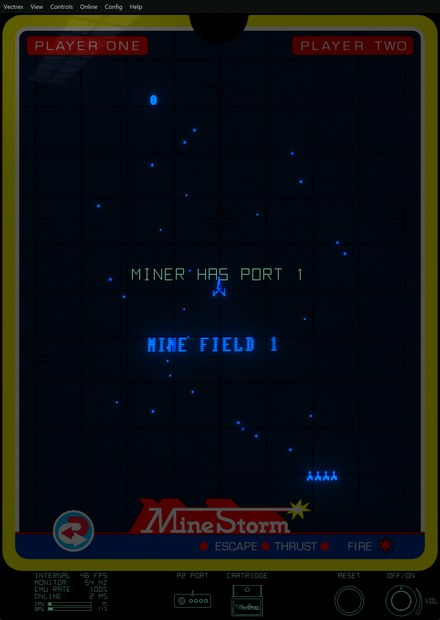
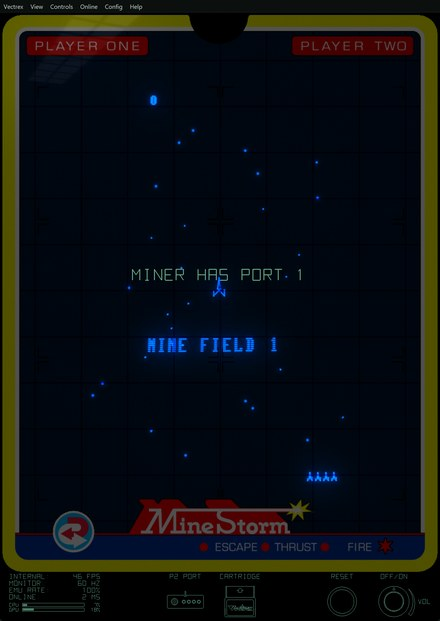
The strip centred as one (distances kept), the OSD always 20 characters wide; PAUSED / ESC/P TO RESUME between the cartridge and RESET

diff --git a/src/frontend/vectrex_emu.py b/src/frontend/vectrex_emu.py
@@ -1108,6 +1108,7 @@ def ver_key(s):
     return tuple(int(x) for x in n[:4]) if n else None
 
 
+OSD_CHARS = 20             # (the OSD's width in characters, always: its widest row - ONLINE: RELAY 120 MS)
 ROOM_LIVE_S = 3.0          # (Find players: the game room's list asked again this often while the window is open - a
                            #  full room is 13 pages, the meeting point answers 6 a second per PC)
 ONE_PLAYER_TITLES = ((b'POLE POSITION',), (b'DARK', b'TOWER'))   # (the original games for one player, by the words of
@@ -3658,13 +3659,13 @@ class App:
             return 0, 0, self.W, self.H
         s, ox, oy = self.ren.map
         return ox * s, oy * s, (ox + ALG_MAX_X) * s, (oy + ALG_MAX_Y) * s
-    def knob_geom(self):
+    def knob_geom(self, raw=False):
         """(knob centre x, y, radius, RESET centre x) in window pixels: just below the picture, lined
-        up with its right edge (see vecrender.KNOB_R)"""
+        up with its right edge (see vecrender.KNOB_R) - the whole strip moved by strip_dx (raw: not)"""
         pl, pt, pr, pb = self.pic_rect()
         r = vecrender.KNOB_R * (pb - pt)
         ar = (pl + pr) / 2 + (vecrender.GLASS_DX + vecrender.ART_AW) * (pb - pt) / 2   # (the overlay's right edge)
-        cx = ar - 2.4 * r                                       # (VOL ends at the overlay's right edge)
+        cx = ar - 2.4 * r + (0.0 if raw else self.strip_dx())   # (VOL ends at the overlay's right edge)
         cy = pb + vecrender.PAD_BOT * (pb - pt) + 1.8 * r   # (the labels' tops below the case as far as the black round it -
                                                                 #  the same gap as on every side; the overlay lies on the case)
         return cx, cy, r, cx - 3.4 * r
@@ -3684,34 +3685,29 @@ class App:
         pl, pt, pr, pb = self.pic_rect()
         return dict(rows=rows, cx=(pl + pr) / 2.0, cy=pt + 0.46 * (pb - pt), k=(pb - pt) / 330.0)
     def pause_state(self):
-        """PAUSED in the strip below the picture, between the OSD and the P2 PORT pictogram (None without the strip:
-        then in the picture)"""
+        """PAUSED in the strip below the picture, between the cartridge and RESET (the owner, 2026-10-29): PAUSED big in
+        orange, how to go on below it, the same room on both sides; up and down halfway between the frame's bottom
+        edge and the bottom of the window (None without the strip: then in the picture)"""
         if not (self.fps_on or self.cart_on or self.knob_on):
             return None
         pl, pt, pr, pb = self.pic_rect()
         x, y, r = self.cart_geom()
-        od = self.osd_state()
-        p2 = od.get('p2x') if od else None
-        right = (p2 if p2 is not None else x - 3.6 * r) - 1.1 * r   # (the P2 PORT pictogram's left edge)
-        k = (1.2 if self.full else 1.0) * 0.3 * r / 6.0         # (as large as the OSD's text)
-        mid = y - 0.5 * r + 8.5 * k
-        if od:
-            left = od['area'][0] + max(sum(len(t) for t, _ in row) for row in od['rows']) * 6.0 * od['k']
-            k = od['k']
-            mid = od['area'][1] + len(od['rows']) * 9.0 * k / 2.0  # (level with the OSD's rows)
-        else:
-            left = (pl + pr) / 2 + (vecrender.GLASS_DX - vecrender.ART_AW) * (pb - pt) / 2
-        rows, ks = ['PAUSED', 'P: GO ON'], [2.6, 1.3]            # (PAUSED large, how to go on below it - short: it fits
-        k = min(k, 0.8 * (right - left) / max(6.0 * len(t) * f for t, f in zip(rows, ks)))   #  the gap, room each side)
-        if k <= 0:
+        kx, ky, kr, rx = self.knob_geom()
+        left, right = x + 1.3 * r, rx - 0.95 * kr               # (the CARTRIDGE label's right end, RESET's ring)
+        room = right - left
+        if room <= 0:
             return None
-        hgt = 11.0 * k * ks[0] + 6.0 * k * ks[1]
-        ph = pb - pt                                            # (up and down: halfway between the frame's bottom edge and
-        fb = (pt + pb) / 2.0 + vecrender.FRAME_Y * ph / 2.0     #  the bottom of the window - the owner, 2026-10-28)
-        wb = pb + (vecrender.PAD_BOT + vecrender.KNOB_STRIP - 0.635 * vecrender.KNOB_R) * ph
-        mid = (fb + wb) / 2.0
+        ph = pb - pt
+        fb = (pt + pb) / 2.0 + vecrender.FRAME_Y * ph / 2.0     # (the frame's bottom edge)
+        wb = pb + (vecrender.PAD_BOT + vecrender.KNOB_STRIP - 0.635 * vecrender.KNOB_R) * ph   # (the window's bottom)
+        rows = ['PAUSED', 'ESC/P TO RESUME']
+        kp = 0.80 * room / (6.0 * len(rows[0]))                 # (PAUSED: most of the gap)
+        kn = min(0.42 * kp, 0.80 * room / (6.0 * len(rows[1])))
+        hgt = 11.0 * kp + 6.0 * kn
+        if hgt > 0.8 * (wb - fb):                               # (a low strip: smaller, to fit)
+            f = 0.8 * (wb - fb) / hgt; kp *= f; kn *= f; hgt *= f
         cols = [self.SPEED_COLORS[1][2], (0.40, 0.667, 0.533)]   # (PAUSED in the OSD's orange)
-        return dict(rows=rows, ks=ks, cols=cols, cx=(left + right) / 2.0, cy=mid - hgt / 2.0, k=k)
+        return dict(rows=rows, ks=[1.0, kn / kp], cols=cols, cx=(left + right) / 2.0, cy=(fb + wb) / 2.0 - hgt / 2.0, k=kp)
     def imager_hint(self):
         """the 3D Imager's disc spinning up (the game draws nothing until it is at speed): a note in the middle of
         the picture with the speed, fading out once the game draws"""
@@ -3781,11 +3777,11 @@ class App:
         bot = pb + (vecrender.PAD_BOT + vecrender.KNOB_STRIP - 0.635 * vecrender.KNOB_R) * ph
         p2x = None
         if k >= OSD_KMIN:                                       # (the strip, the owner 2026-10-29: the OSD moved in, as far
-            chars = max(sum(len(t) for t, _ in row) for row in rows)   #  from P2 PORT as the cartridge is from RESET -
-            w = chars * 6.0 * k                                 #  PAUSED sits in that gap)
-            cxx, _, cr = self.cart_geom()
+            cxx, _, cr = self.cart_geom()                       #  from P2 PORT as the cartridge is from RESET - PAUSED sits
+                                                                #  in that gap; the whole strip centred, strip_dx)
             gap = (rx - 0.95 * r) - (cxx + 1.3 * cr)            # (the cartridge's label to RESET's ring)
-            left = (cxx - 3.6 * cr - 1.1 * cr) - gap - w        # (P2 PORT's left edge, the gap, the OSD's width)
+            left = (cxx - 3.6 * cr - 1.1 * cr) - gap - OSD_CHARS * 6.0 * k   # (P2 PORT's left edge, the gap, the
+                                                                #  OSD's width - always the same)
             if left >= gl_:                                     # (only inwards)
                 gl_ = left
         if k < OSD_KMIN:                                        # (a small window: the strip's text would be unreadable -
@@ -3805,12 +3801,26 @@ class App:
             self.close_browser()
         self.strip_changed()
         return 'break'
-    def cart_geom(self):
+    def cart_geom(self, raw=False):
         """(centre x, y, size) of the cartridge: level with the knob, the right half of the P2 PORT + cartridge
-        block that is centred below the picture"""
+        block that is centred below the picture - the whole strip moved by strip_dx (raw: not)"""
         pl, pt, pr, pb = self.pic_rect()
-        cx, cy, r, rx = self.knob_geom()
-        return (pl + pr) / 2.0 + vecrender.GLASS_DX * (pb - pt) / 2 + 1.8 * r, cy, r
+        cx, cy, r, rx = self.knob_geom(raw=True)
+        return (pl + pr) / 2.0 + vecrender.GLASS_DX * (pb - pt) / 2 + 1.8 * r + (0.0 if raw else self.strip_dx()), cy, r
+    def strip_dx(self):
+        """the strip below the picture moved as one (its distances kept) so that the room left of the OSD and right
+        of VOL is the same (the owner, 2026-10-29); the OSD is always OSD_CHARS wide"""
+        if not (self.fps_on and self.ren and hasattr(self.ren, 'map')):
+            return 0.0
+        pl, pt, pr, pb = self.pic_rect()
+        cx, cy, r, rx = self.knob_geom(raw=True)
+        cxx, _, cr = self.cart_geom(raw=True)
+        k = (1.2 if self.full else 1.0) * 0.3 * r / 6.0
+        gap = (rx - 0.95 * r) - (cxx + 1.3 * cr)
+        left = (cxx - 3.6 * cr - 1.1 * cr) - gap - OSD_CHARS * 6.0 * k   # (as osd_state places it)
+        right = cx + 2.4 * r
+        x0 = (pl + pr) / 2 + vecrender.GLASS_DX * (pb - pt) / 2
+        return x0 - (left + right) / 2.0
     def cart_state(self):
         if not (self.cart_on and self.ren and hasattr(self.ren, 'map')):
             return None
@@ -7226,7 +7236,8 @@ class App:
                 vals.append(('ONLINE', '%s%d MS' % ('RELAY ' if getattr(net, 'relay', False) else '', ng.get('rtt_ms', 0)), g))
             else:
                 vals.append(('ONLINE', 'WAITING', (0.93, 0.60, 0.20)))
-        width = max(len(n) + 2 + len(v) for n, v, _ in vals)   # (the values end in one column)
+        width = max([OSD_CHARS] + [len(n) + 2 + len(v) for n, v, _ in vals])   # (the values end in one column - always
+                                                                #  OSD_CHARS wide: the OSD never changes width)
         return [[(n + ':' + ' ' * (width - len(n) - 1 - len(v)), g), (v, c)] for n, v, c in vals]
     def speed_shown(self):
         return 100 if self.speed >= 99.5 else int(self.speed)

diff --git a/RELEASE_NOTES.md b/RELEASE_NOTES.md
@@ -49,9 +49,10 @@ build workflow replaces that release (title = the version, marked Latest) with t
 **The on-screen display**
 - Online, the ONLINE row (the round trip, RELAY through the meeting point, WAITING) takes the volume's row: the display
   keeps its height and stays below the overlay. The volume shows on the knob and on the status line.
-- The strip below the picture: the OSD moved in - as far from P2 PORT as the cartridge is from RESET, room from the
-  window's edge. Paused: PAUSED and P: GO ON sit in that gap (the same room on both sides), halfway between the
-  frame's bottom edge and the bottom of the window.
+- The strip below the picture: the OSD as far from P2 PORT as the cartridge is from RESET, always the same width (its
+  values in one column), and the whole strip centred - the same room left of the OSD as right of VOL.
+- Paused: a big orange PAUSED and ESC/P TO RESUME between the cartridge and RESET, halfway between the frame's bottom
+  edge and the bottom of the window.
 
 ## v1.0.8
 
